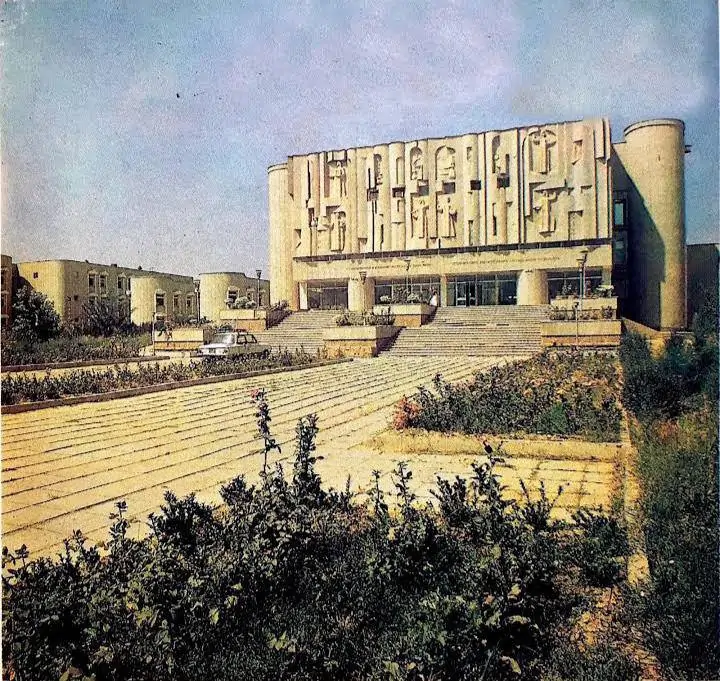
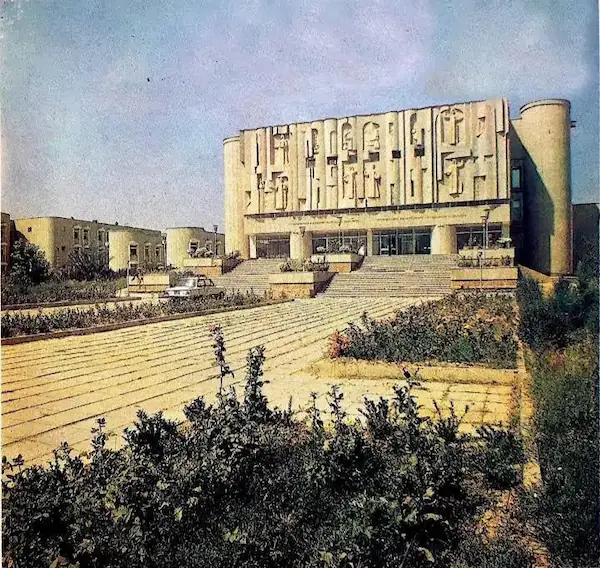
done

diff --git a/src/components/NewsSection.jsx b/src/components/NewsSection.jsx
@@ -4,6 +4,8 @@ import { useTranslation } from 'react-i18next';
 import { Link } from 'react-router-dom';
 import { ROUTES } from '../paths';
 import PageWrapper from './PageWrapper';
+// 1. ИМПОРТИРУЙ СВОЙ КОМПОНЕНТ СКЕЛЕТОНА ТУТ (исправь путь, если он другой)
+import CardSkeleton from './CardSkeleton';
 
 const NewsSection = () => {
     const { t, i18n } = useTranslation();
@@ -17,7 +19,6 @@ const NewsSection = () => {
         return item[`${field}_${lang}`] || item[field];
     };
 
-    // Функция для определения количества новостей на слайд в зависимости от ширины экрана
     const getItemsPerSlide = () => {
         const width = window.innerWidth;
         if (width < 640) return 1;      // Мобилки: 1 новость
@@ -25,18 +26,16 @@ const NewsSection = () => {
         return 4;                        // Десктоп: 4 новости
     };
 
-    // Отслеживаем изменение размера окна
     useEffect(() => {
         const handleResize = () => {
             const newItemsPerSlide = getItemsPerSlide();
             if (newItemsPerSlide !== itemsPerSlide) {
                 setItemsPerSlide(newItemsPerSlide);
-                setCurrentIndex(0); // Сбрасываем индекс при изменении количества
+                setCurrentIndex(0);
             }
         };
 
         window.addEventListener('resize', handleResize);
-        // Вызываем сразу при монтировании
         handleResize();
 
         return () => window.removeEventListener('resize', handleResize);
@@ -58,24 +57,26 @@ const NewsSection = () => {
             });
     }, []);
 
-    const totalSlides = Math.ceil(news.length / itemsPerSlide);
+    // 2. УБРАЛИ ДИРЕКТИВНЫЙ RETURN ПРИ LOADING, НО ОСТАВИЛИ ДЛЯ ПУСТОГО МАССИВА ПОСЛЕ ЗАГРУЗКИ
+    if (!loading && news.length === 0) return null;
+
+    // Считаем слайды (если идет загрузка, берем itemsPerSlide как один слайд по умолчанию)
+    const totalSlides = loading ? 1 : Math.ceil(news.length / itemsPerSlide);
 
     const nextSlide = () => {
+        if (loading) return;
         setCurrentIndex((prev) => (prev + 1) % totalSlides);
     };
 
     const prevSlide = () => {
+        if (loading) return;
         setCurrentIndex((prev) => (prev - 1 + totalSlides) % totalSlides);
     };
 
-    if (loading) return <div className="py-20 text-center font-bold text-[#0E1A2B]">{t('home.news.loading')}</div>;
-    if (news.length === 0) return null;
-
-    // Выбираем новости для текущего слайда
-    const currentNews = news.slice(
-        currentIndex * itemsPerSlide,
-        currentIndex * itemsPerSlide + itemsPerSlide
-    );
+    // Выбираем новости для текущего слайда (только если загрузка завершена)
+    const currentNews = loading
+        ? []
+        : news.slice(currentIndex * itemsPerSlide, currentIndex * itemsPerSlide + itemsPerSlide);
 
     return (
         <PageWrapper>
@@ -91,7 +92,7 @@ const NewsSection = () => {
                             <div className="w-20 h-[3px] bg-[var(--gold-primary)] mt-4 rounded-full mx-auto sm:mx-0"></div>
                         </div>
 
-                        {/* Кнопки навигации под заголовком на мобилках */}
+                        {/* Кнопки навигации */}
                         {totalSlides > 1 && (
                             <div className="flex gap-3">
                                 <button
@@ -111,7 +112,6 @@ const NewsSection = () => {
                     </div>
 
                     <div className="relative">
-                        {/* Кнопки управления - на десктопе по бокам */}
                         {totalSlides > 1 && (
                             <>
                                 <button
@@ -129,52 +129,60 @@ const NewsSection = () => {
                             </>
                         )}
 
-                        {/* Сетка новостей - адаптивная */}
+                        {/* Сетка новостей */}
                         <div className={`
-        grid gap-6 md:gap-8
-        ${itemsPerSlide === 1 ? 'grid-cols-1' : ''}
-        ${itemsPerSlide === 2 ? 'grid-cols-1 sm:grid-cols-2' : ''}
-        ${itemsPerSlide === 4 ? 'grid-cols-1 sm:grid-cols-2 lg:grid-cols-4' : ''}
-      `}>
-                            {currentNews.map((item, index) => (
-                                <div
-                                    key={item._id || index}
-                                    className="bg-white dark:bg-gray-900 relative group rounded-2xl overflow-hidden shadow-xl dark:shadow-gray-900/50 hover:shadow-2xl transition-shadow duration-500 flex flex-col h-full"
-                                >
-                                    <div className="overflow-hidden h-[200px] sm:h-[220px]">
-                                        <img
-                                            src={item.image || null}
-                                            alt={item.title || "News"}
-                                            className="w-full h-full object-cover transition-transform duration-500 group-hover:scale-110"
-                                        />
-                                    </div>
-                                    <div className="p-4 sm:p-6 flex flex-col flex-grow">
-                                        <h3 className="text-lg sm:text-xl font-bold text-[#0E1A2B] dark:text-gray-100 mb-2 line-clamp-2 sm:line-clamp-1" style={{ fontFamily: "'Playfair Display', serif" }}>
-                                            {getLocalizedField(item, 'title')}
-                                        </h3>
-                                        <p className="text-xs sm:text-sm text-gray-600 dark:text-gray-400 mb-4 sm:mb-6 line-clamp-3 sm:line-clamp-2 flex-grow" style={{ fontFamily: "'Merriweather', serif" }}>
-                                            {getLocalizedField(item, 'description') || t('home.news.placeholder_desc')}
-                                        </p>
+                            grid gap-6 md:gap-8
+                            ${itemsPerSlide === 1 ? 'grid-cols-1' : ''}
+                            ${itemsPerSlide === 2 ? 'grid-cols-1 sm:grid-cols-2' : ''}
+                            ${itemsPerSlide === 4 ? 'grid-cols-1 sm:grid-cols-2 lg:grid-cols-4' : ''}
+                        `}>
+                            {/* 3. ЕСЛИ ИДЕТ ЗАГРУЗКА, РЕНДЕРИМ СКЕЛЕТОНЫ */}
+                            {loading ? (
+                                Array.from({ length: itemsPerSlide }).map((_, idx) => (
+                                    <CardSkeleton key={idx} />
+                                ))
+                            ) : (
+                                // ЕСЛИ ЗАГРУЗКА ЗАКОНЧИЛАСЬ, РЕНДЕРИМ НАСТОЯЩИЕ КАРТОЧКИ
+                                currentNews.map((item, index) => (
+                                    <div
+                                        key={item._id || index}
+                                        className="bg-white dark:bg-gray-900 relative group rounded-2xl overflow-hidden shadow-xl dark:shadow-gray-900/50 hover:shadow-2xl transition-shadow duration-500 flex flex-col h-full"
+                                    >
+                                        <div className="overflow-hidden h-[200px] sm:h-[220px]">
+                                            <img
+                                                src={item.image || null}
+                                                alt={item.title || "News"}
+                                                className="w-full h-full object-cover transition-transform duration-500 group-hover:scale-110"
+                                            />
+                                        </div>
+                                        <div className="p-4 sm:p-6 flex flex-col flex-grow">
+                                            <h3 className="text-lg sm:text-xl font-bold text-[#0E1A2B] dark:text-gray-100 mb-2 line-clamp-2 sm:line-clamp-1" style={{ fontFamily: "'Playfair Display', serif" }}>
+                                                {getLocalizedField(item, 'title')}
+                                            </h3>
+                                            <p className="text-xs sm:text-sm text-gray-600 dark:text-gray-400 mb-4 sm:mb-6 line-clamp-3 sm:line-clamp-2 flex-grow" style={{ fontFamily: "'Merriweather', serif" }}>
+                                                {getLocalizedField(item, 'description') || t('home.news.placeholder_desc')}
+                                            </p>
 
-                                        <Link to={`/news/${item._id}`} className="mt-auto">
-                                            <button className="group/btn relative w-full sm:w-auto px-6 sm:px-8 py-3 sm:py-4 bg-[var(--gold-primary)] text-white hover:text-[var(--gold-primary)] rounded-xl font-bold uppercase tracking-[0.15em] sm:tracking-[0.2em] text-[11px] sm:text-sm border border-[var(--gold-primary)]/50 transition-colors duration-500 hover:border-[var(--gold-primary)] hover:bg-[var(--gold-primary)]/5">
-                                                <span className="absolute top-0 left-0 w-2 h-2 border-t-2 border-l-2 border-[var(--gold-primary)] opacity-0 group-hover/btn:opacity-100 transition-all duration-300 rounded-tl-lg"></span>
-                                                <span className="absolute bottom-0 right-0 w-2 h-2 border-b-2 border-r-2 border-[var(--gold-primary)] opacity-0 group-hover/btn:opacity-100 transition-all duration-300 rounded-br-lg"></span>
+                                            <Link to={`/news/${item._id}`} className="mt-auto">
+                                                <button className="group/btn relative w-full sm:w-auto px-6 sm:px-8 py-3 sm:py-4 bg-[var(--gold-primary)] text-white hover:text-[var(--gold-primary)] rounded-xl font-bold uppercase tracking-[0.15em] sm:tracking-[0.2em] text-[11px] sm:text-sm border border-[var(--gold-primary)]/50 transition-colors duration-500 hover:border-[var(--gold-primary)] hover:bg-[var(--gold-primary)]/5">
+                                                    <span className="absolute top-0 left-0 w-2 h-2 border-t-2 border-l-2 border-[var(--gold-primary)] opacity-0 group-hover/btn:opacity-100 transition-all duration-300 rounded-tl-lg"></span>
+                                                    <span className="absolute bottom-0 right-0 w-2 h-2 border-b-2 border-r-2 border-[var(--gold-primary)] opacity-0 group-hover/btn:opacity-100 transition-all duration-300 rounded-br-lg"></span>
 
-                                                <span className="relative z-10 flex items-center justify-center gap-2 sm:gap-3">
-                                                    {t('home.news.read_more')}
-                                                    <span className="relative flex items-center justify-center">
-                                                        <span className="w-3 sm:w-4 h-[1px] bg-white group-hover/btn:bg-[var(--gold-primary)] transform origin-right transition-transform duration-300 group-hover/btn:scale-x-125"></span>
-                                                        <span className="absolute right-0 w-1 h-1 sm:w-1.5 sm:h-1.5 border-t border-r border-white group-hover/btn:border-[var(--gold-primary)] rotate-45 transition-transform duration-300 group-hover/btn:translate-x-1"></span>
+                                                    <span className="relative z-10 flex items-center justify-center gap-2 sm:gap-3">
+                                                        {t('home.news.read_more')}
+                                                        <span className="relative flex items-center justify-center">
+                                                            <span className="w-3 sm:w-4 h-[1px] bg-white group-hover/btn:bg-[var(--gold-primary)] transform origin-right transition-transform duration-300 group-hover/btn:scale-x-125"></span>
+                                                            <span className="absolute right-0 w-1 h-1 sm:w-1.5 sm:h-1.5 border-t border-r border-white group-hover/btn:border-[var(--gold-primary)] rotate-45 transition-transform duration-300 group-hover/btn:translate-x-1"></span>
+                                                        </span>
                                                     </span>
-                                                </span>
 
-                                                <span className="absolute inset-0 rounded-xl opacity-0 group-hover/btn:opacity-100 shadow-[0_0_20px_rgba(212,162,89,0.1)] transition-opacity duration-500"></span>
-                                            </button>
-                                        </Link>
+                                                    <span className="absolute inset-0 rounded-xl opacity-0 group-hover/btn:opacity-100 shadow-[0_0_20px_rgba(212,162,89,0.1)] transition-opacity duration-500"></span>
+                                                </button>
+                                            </Link>
+                                        </div>
                                     </div>
-                                </div>
-                            ))}
+                                ))
+                            )}
                         </div>
 
                         {/* Индикаторы слайдов */}

diff --git a/index.html b/index.html
@@ -6,11 +6,32 @@
   <link rel="icon" type="image/png" href="/Logo.webp" />
   <meta name="viewport" content="width=device-width, initial-scale=1.0" />
   <title>Pavel Benkov Art School</title>
+  <meta name="description"
+    content="Pavel Benkov Republican Specialized School of Arts in Tashkent — professional training in drawing, painting, and fine arts." />
+
+  <meta property="og:title" content="Pavel Benkov Art School" />
+  <meta property="og:description"
+    content="A specialized art school in Tashkent offering professional education in fine arts, drawing, and painting." />
+  <meta property="og:image" content="https://benkov.vercel.app/preview.jpg" />
+  <meta property="og:type" content="website" />
+  <meta property="og:url" content="https://benkov.vercel.app/?v=2" />
+  <meta property="og:locale" content="en_US" />
+  <meta name="twitter:card" content="summary_large_image" />
 
   <link rel="icon" type="image/png" sizes="192x192" href="/Logo192.webp">
   <link rel="apple-touch-icon" href="/Logo192.webp">
-  <link rel="modulepreload" href="/src/main.jsx">
-  <link rel="preload" as="image" href="/Poster.webp" fetchpriority="high">
+
+  <link rel="preload" fetchpriority="high" as="image" href="/assets/webp/Poster-f9NcFHJN.webp" type="image/webp">
+
+  <link rel="preconnect" href="https://fonts.googleapis.com">
+  <link rel="preconnect" href="https://fonts.gstatic.com" crossorigin>
+  <link
+    href="https://fonts.googleapis.com/css2?family=Playfair+Display:wght@400..900&family=Merriweather:wght@300..900&family=Inter:wght@100..900&display=swap"
+    rel="stylesheet" media="print" onload="this.media='all'">
+  <noscript>
+    <link rel="stylesheet"
+      href="https://fonts.googleapis.com/css2?family=Playfair+Display:wght@400..900&family=Merriweather:wght@300..900&family=Inter:wght@100..900&display=swap">
+  </noscript>
 
   <script type="application/ld+json">
   {
@@ -42,33 +63,12 @@
   }
   </script>
 
-  <meta name="description"
-    content="Pavel Benkov Republican Specialized School of Arts in Tashkent — professional training in drawing, painting, and fine arts." />
-
-  <meta property="og:title" content="Pavel Benkov Art School" />
-  <meta property="og:description"
-    content="A specialized art school in Tashkent offering professional education in fine arts, drawing, and painting." />
-  <meta property="og:image" content="https://benkov.vercel.app/preview.jpg" />
-  <meta property="og:type" content="website" />
-  <meta property="og:url" content="https://benkov.vercel.app/?v=2" />
-  <meta property="og:locale" content="en_US" />
-  <meta name="twitter:card" content="summary_large_image" />
-
-  <link
-    href="https://fonts.googleapis.com/css2?family=Playfair+Display:wght@400..900&family=Merriweather:wght@300..900&family=Inter:wght@100..900&display=swap"
-    rel="stylesheet" media="print" onload="this.media='all'">
-  <noscript>
-    <link rel="stylesheet"
-      href="https://fonts.googleapis.com/css2?family=Playfair+Display:wght@400..900&family=Merriweather:wght@300..900&family=Inter:wght@100..900&display=swap">
-  </noscript>
-  <link rel="preconnect" href="https://fonts.googleapis.com">
-  <link rel="preconnect" href="https://fonts.gstatic.com" crossorigin>
+  <script src="/registerSW.js" defer></script>
 </head>
 
 <body>
   <div id="root"></div>
   <script type="module" src="/src/main.jsx"></script>
-  <link rel="preload" as="style" href="/src/index.css">
 </body>
 
 </html>

diff --git a/src/components/CardSkeleton.jsx b/src/components/CardSkeleton.jsx
@@ -2,30 +2,32 @@ import React from 'react';
 
 export default function CardSkeleton() {
     return (
-        <div className="overflow-hidden rounded-xl border border-white/5 bg-[#1B2A44] p-4 shadow-lg">
+        <div className="bg-white dark:bg-gray-900 relative rounded-2xl overflow-hidden shadow-xl dark:shadow-gray-900/50 flex flex-col h-full border border-black/5 dark:border-white/5">
 
-            {/* Скелетон фотки с золотистым отливом при пульсации */}
-            <div className="relative h-48 w-full animate-pulse rounded-lg bg-slate-800/80 overflow-hidden">
-                {/* Имитация блика на фото */}
-                <div className="absolute inset-0 bg-gradient-to-r from-transparent via-[#D4A259]/5 to-transparent animate-[shimmer_2s_infinite]" />
+            {/* Скелетон фотки — ВЫСОТА ОДИН В ОДИН как в NewsSection */}
+            <div className="relative h-[200px] sm:h-[220px] w-full animate-pulse bg-slate-200 dark:bg-slate-800/80 overflow-hidden">
+                {/* Твой фирменный блик на фото */}
+                <div className="absolute inset-0 bg-gradient-to-r from-transparent via-[#D4A259]/10 to-transparent animate-[shimmer_2s_infinite]" />
             </div>
 
-            <div className="mt-4 space-y-3">
-                {/* Категория */}
-                <div className="h-3 w-1/4 animate-pulse rounded bg-slate-800" />
+            {/* Контентная часть — паддинги в точности как у оригинала */}
+            <div className="p-4 sm:p-6 flex flex-col flex-grow">
 
-                {/* Заголовок (две строки) */}
-                <div className="space-y-2">
-                    <div className="h-5 w-full animate-pulse rounded bg-slate-800" />
-                    <div className="h-5 w-2/3 animate-pulse rounded bg-slate-800" />
+                {/* Заголовок (имитируем 1-2 строки) */}
+                <div className="space-y-2 mb-3">
+                    <div className="h-5 w-full animate-pulse rounded bg-slate-200 dark:bg-slate-800" />
+                    <div className="h-5 w-2/3 animate-pulse rounded bg-slate-200 dark:bg-slate-800 sm:hidden" />
                 </div>
 
-                {/* Низ карточки: цена и кнопка */}
-                <div className="flex items-center justify-between pt-2">
-                    {/* Цена */}
-                    <div className="h-6 w-16 animate-pulse rounded bg-slate-800" />
-                    {/* Кнопка */}
-                    <div className="h-9 w-24 animate-pulse rounded-lg bg-[#D4A259]/20" />
+                {/* Текст описания (имитируем 2 строчки text-gray-600) */}
+                <div className="space-y-2 flex-grow mb-6">
+                    <div className="h-4 w-full animate-pulse rounded bg-slate-200/70 dark:bg-slate-800/60" />
+                    <div className="h-4 w-5/6 animate-pulse rounded bg-slate-200/70 dark:bg-slate-800/60" />
+                </div>
+
+                {/* Кнопка "Читать далее" в самом низу */}
+                <div className="mt-auto">
+                    <div className="h-[46px] sm:h-[54px] w-full sm:w-36 animate-pulse rounded-xl bg-[#D4A259]/25 dark:bg-[#D4A259]/15" />
                 </div>
             </div>
         </div>

diff --git a/src/pages/About.jsx b/src/pages/About.jsx
@@ -40,6 +40,8 @@ const About = () => {
                   <img
                     src={img}
                     alt={`Слайд ${index + 1}`}
+                    loading="lazy"
+                    decoding="async"
                     className="w-full h-full object-cover grayscale-[10%] brightness-90"
                   />
                   <div className="absolute inset-0 bg-gradient-to-t from-black/40 via-transparent to-transparent"></div>

diff --git a/src/pages/Directions.jsx b/src/pages/Directions.jsx
@@ -50,6 +50,7 @@ const Directions = () => {
                           src={staticData.image}
                           alt={t(`directions.items.${itemId}.title`)}
                           loading="lazy"
+                          decoding="async"
                           className="w-full h-full object-cover transition-transform duration-700 group-hover:scale-110"
                         />
                       </div>

diff --git a/src/pages/Home.jsx b/src/pages/Home.jsx
@@ -101,6 +101,7 @@ const Home = () => {
                     src={History}
                     alt=""
                     loading="lazy"
+                    decoding="async"
                   />
                   <div className="absolute inset-0 bg-gradient-to-tr from-[#1B2A44]/20 dark:from-[#1B2A44]/40 to-transparent"></div>
                 </div>